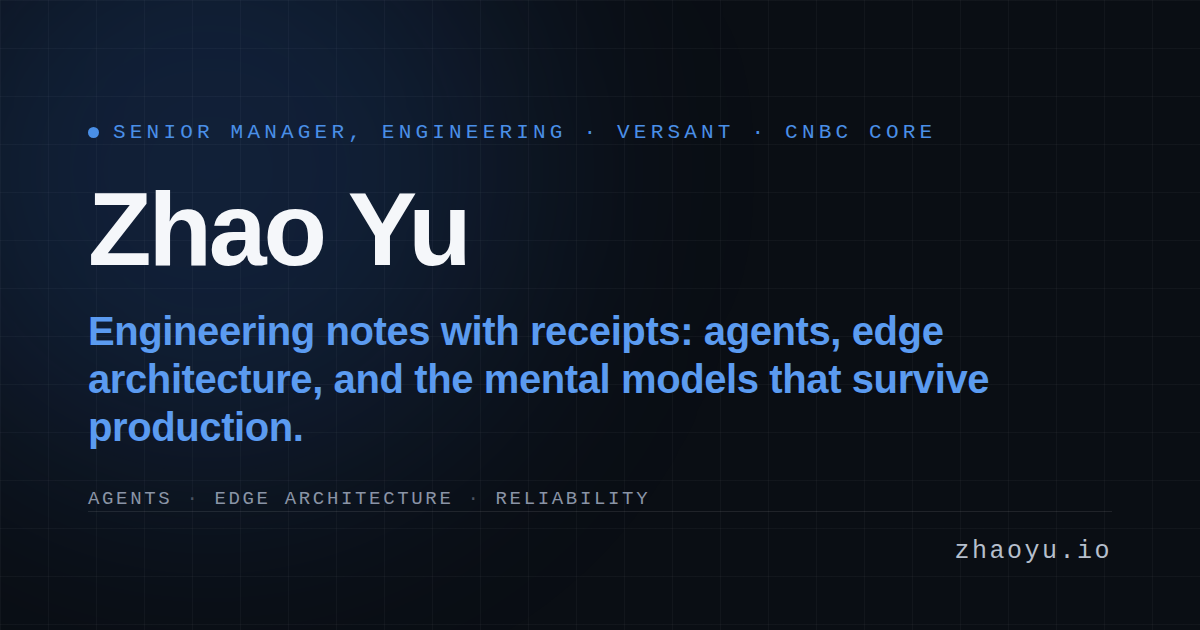
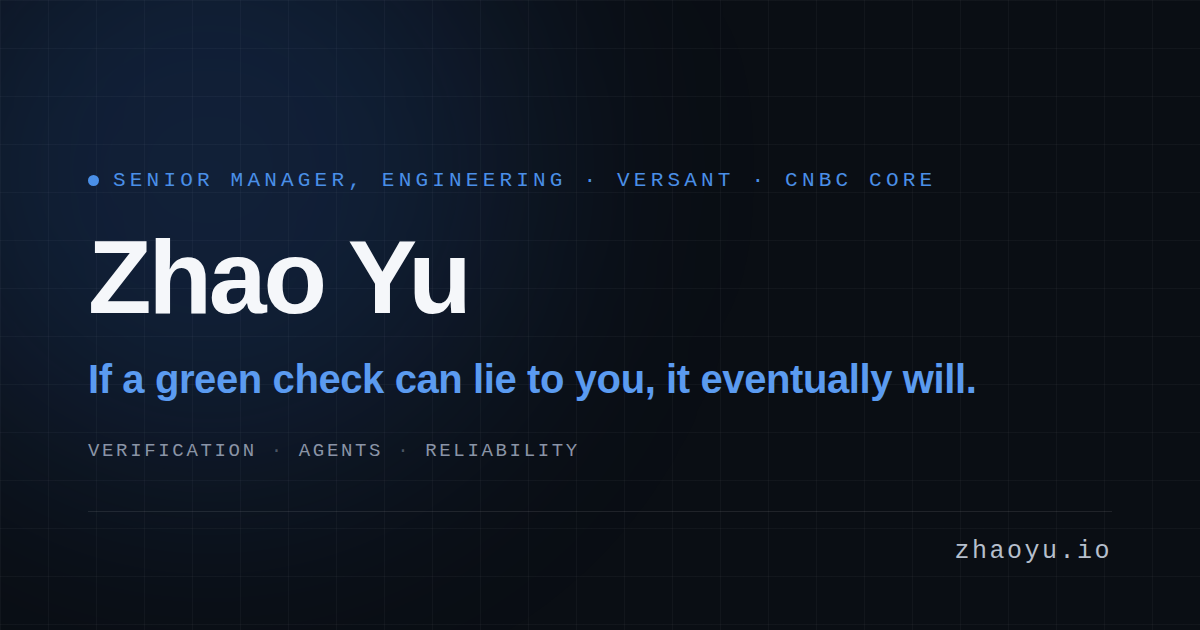
Lead the hero with the verification thesis; state identity once, quietly
The hero headline was a format label ("Engineering notes with receipts") and
the site's actual thesis sat in the bio's last sentence. It now leads:
"If a green check can lie to you, it eventually will." The subhead names
the standard and the subjects the recent notes actually cover
(verification, agents, reliability); the bio gives the two failure shapes
from the shipped notes and what each note carries.

Identity is one line under the CTAs at secondary weight (name, role of
record, NYC), per PORTFOLIO-REVIEW-2026-09.md P0.2: findable for anyone
looking for who wrote this, never what the page says first. No team size
or scope rides along; those stay in About.

- content.ts: roleTitle constant is the single human-facing spelling of
  the role (hero identity, <title>, og/twitter titles, meta, Connect).
- Hero.svelte: bio renders as plain text (drops an {@html} sink and the
  dead emphasis rules); adds the identity line.
- positioning.test.ts: new assertion that identity is roleTitle and
  carries no scope claim. The headline's /CNBC/ assertion is removed as
  an owner policy change: platform grounding moved to the identity line.
  The bio's /receipt/ anchor is unchanged.
- structured-data.ts: Person description is the meta copy alone; the new
  bio leans on the page (its antecedent is the h1).
- og.ts, llms.txt, twitter: topic list becomes verification, agents,
  reliability on every surface; site OG card regenerated.
[…]

diff --git a/frontend/src/lib/constants/content.ts b/frontend/src/lib/constants/content.ts
@@ -52,32 +52,47 @@ export interface HeroContent {
     primary: string;
     secondary: string;
   };
+  /** The quiet identity line under the CTAs: a fact stated once, never a badge. */
+  identity: {
+    name: string;
+    role: string;
+    location: string;
+  };
 }
 
-/**
- * The role line, kept off the hero on purpose: it lives on the finding-aid
- * surfaces (OG card eyebrow, <title>, meta, JSON-LD, llms.txt) and in About.
- */
+/** The OG card eyebrow: the role of record in the card's all-caps register. */
 export const roleLine = 'SENIOR MANAGER, ENGINEERING · VERSANT · CNBC CORE';
 
 /**
- * Hero copy. Craft-first: the page leads with the writing and the standard it
- * holds itself to, not the résumé. Role and scope are stated once, in About,
- * and on the agent-facing surfaces. The headline (primary + accent) is held
- * to 40 words by positioning.test.ts; the bio carries at most one figure.
+ * The role of record in sentence case, spelled once for every human-facing
+ * surface: <title>, og/twitter titles, meta, the hero identity line, Connect.
+ * Title only; team size and program scope stay in About and the meta copy.
+ */
+export const roleTitle = 'Senior Manager, Engineering at Versant (CNBC Core)';
+
+/**
+ * Hero copy. Craft-first: the thesis leads and is the largest thing on the
+ * screen. Identity sits under the CTAs at secondary weight, so anyone looking
+ * for who wrote this finds it without it being what the page says first
+ * (PORTFOLIO-REVIEW-2026-09.md, P0.2). Scope is stated once, in About, and on
+ * the agent-facing surfaces. The headline (primary + accent) is held to 40
+ * words by positioning.test.ts; the bio carries at most one figure.
  */
 export const heroContent: HeroContent = {
   headline: {
-    primary: 'Engineering notes with receipts.',
-    accent:
-      'Mental models from ten years of building CNBC.com: agents, edge architecture, reliability.',
+    primary: 'If a green check can lie to you, it eventually will.',
+    accent: 'Engineering notes with receipts on verification, agents, and reliability.',
   },
-  tagline:
-    'Engineering notes with receipts: agents, edge architecture, and the mental models that survive production.',
-  bio: "I'm an engineering manager who still ships, and this site is where I write down what production teaches me. Every claim carries a receipt: a number, a named system, or an incident I can point at. If a green check can lie to you, it eventually will; the notes start there.",
+  tagline: 'If a green check can lie to you, it eventually will.',
+  bio: 'The lie is quiet: a gate whose “did not run” reads as a pass, or a search that reported zero because it was looking in the wrong place. Each note names its receipt, the incident or source it came from. The Models section collects the rules that held up.',
   cta: {
     primary: 'Read the Notes',
     secondary: 'View Selected Work',
+  },
+  identity: {
+    name: 'Zhao Yu',
+    role: roleTitle,
+    location: 'NYC',
   },
 };
 
@@ -252,8 +267,7 @@ export const notesData: NotesData = {
           verified_on: '2026-09-15',
         },
         {
-          label:
-            'First-hand: weekly re-run row recording fifty scripts and zero without a caller',
+          label: 'First-hand: weekly re-run row recording fifty scripts and zero without a caller',
           ref: 'ba643ca5:ops/audits/script-consumer-audit-2026-09-01.md',
           host: 'Windows 10',
           verified_on: '2026-09-15',
@@ -709,9 +723,8 @@ export interface SocialDescriptions {
 
 /** Human-facing social/meta copy; the agent layer (JSON-LD, llms.txt) tells the same story. */
 export const socialDescriptions: SocialDescriptions = {
-  meta: 'Senior Manager, Engineering at Versant (CNBC Core). 8 engineers and 2 QE direct, co-leading the ~20-engineer CNBC.com rebuild. Notes with receipts.',
-  twitter:
-    'Senior Manager, Engineering at Versant (CNBC Core). Engineering notes with receipts: agents, edge architecture, reliability.',
+  meta: `${roleTitle}. 8 engineers and 2 QE direct, co-leading the ~20-engineer CNBC.com rebuild. Notes with receipts.`,
+  twitter: `${roleTitle}. Engineering notes with receipts: verification, agents, reliability.`,
 };
 
 export interface PersonaItem {

diff --git a/frontend/src/lib/constants/positioning.test.ts b/frontend/src/lib/constants/positioning.test.ts
@@ -5,6 +5,7 @@ import { resolve, dirname } from 'node:path';
 import {
   heroContent,
   roleLine,
+  roleTitle,
   socialDescriptions,
   narrativeBio,
   builderProjects,
@@ -32,15 +33,28 @@ describe('hero', () => {
   it('leads with the craft thesis in at most 40 words, with no résumé claims', () => {
     const headline = `${heroContent.headline.primary} ${heroContent.headline.accent}`;
     expect(words(headline)).toBeLessThanOrEqual(40);
-    // The hero names the standard (receipts) and the subject matter, grounded
-    // in the platform. The role and scope deliberately do not appear here:
-    // they live in About and on the finding-aid surfaces (meta, JSON-LD,
-    // llms.txt), asserted below. A résumé phrase reappearing in the hero is
-    // the regression this block exists to catch.
+    // The headline names the standard (receipts) and the subject matter. The
+    // role never appears in it: identity is one quiet line under the CTAs,
+    // asserted below, and scope lives in About and on the finding-aid
+    // surfaces (meta, JSON-LD, llms.txt). A résumé phrase reappearing in the
+    // headline is the regression this block exists to catch. The headline no
+    // longer has to name CNBC (owner decision, 2026-10-04): platform grounding
+    // moved to the identity line, where roleTitle carries CNBC Core.
     expect(headline).toMatch(/receipt/i);
     expect(headline).toMatch(/agents|edge|reliability/i);
-    expect(headline).toMatch(/CNBC/);
     expect(headline).not.toMatch(/senior manager|versant|QE|20-engineer|player-coach/i);
+  });
+
+  it('states identity once, as the role of record and nothing more', () => {
+    // PORTFOLIO-REVIEW-2026-09.md P0.2: a fact stated once, under the CTAs.
+    // Title only: team size and program scope never ride along into the hero.
+    const { identity } = heroContent;
+    expect(identity.role).toBe(roleTitle);
+    expect(roleTitle).toMatch(TITLE);
+    expect(roleTitle).toMatch(EMPLOYER);
+    expect(roleTitle).toMatch(SCOPE);
+    const line = `${identity.name} ${identity.role} ${identity.location}`;
+    expect(line).not.toMatch(/QE|20-engineer|player-coach|\b(leads|directs|runs)\b/i);
   });
 
   it('carries at most one figure in the bio', () => {
@@ -54,8 +68,8 @@ describe('hero', () => {
   });
 
   it('keeps the role line intact for the finding-aid surfaces', () => {
-    // The OG card eyebrow, <title>, meta and JSON-LD still state the role as
-    // fact; craft-first is about placement, not about hiding the job.
+    // The OG card eyebrow states the role as fact in its all-caps register;
+    // craft-first is about placement, not about hiding the job.
     expect(roleLine).toMatch(/SENIOR MANAGER, ENGINEERING/);
     expect(roleLine).toMatch(/VERSANT/);
     expect(roleLine).toMatch(/CNBC CORE/);

diff --git a/frontend/src/lib/components/features/hero/Hero.svelte b/frontend/src/lib/components/features/hero/Hero.svelte
@@ -2,13 +2,7 @@
   import { heroContent } from '$lib/constants/content';
   import { handleAnchorNavigation } from '$lib/utils/navigation';
 
-  // Light emphasis on the two phrases that carry the story; each replace is a
-  // no-op when the phrase is absent, so a copy edit cannot break the markup.
-  const formattedBio = $derived(
-    heroContent.bio
-      .replace(/still ships/g, '<strong class="bio-emphasis">still ships</strong>')
-      .replace(/carries a receipt/g, '<span class="bio-metric">carries a receipt</span>'),
-  );
+  const { identity } = heroContent;
 </script>
 
 <section
@@ -34,10 +28,7 @@
       </span>
     </h1>
 
-    <p class="hero-bio mx-auto">
-      <!-- eslint-disable-next-line svelte/no-at-html-tags -- self-authored bio from content.ts, not user input -->
-      {@html formattedBio}
-    </p>
+    <p class="hero-bio mx-auto">{heroContent.bio}</p>
 
     <div class="hero-actions flex flex-col md:flex-row justify-center items-center">
       <a
@@ -55,6 +46,13 @@
         {heroContent.cta.secondary}
       </a>
     </div>
+
+    <!-- Identity, stated once and quietly: under the CTAs, at secondary weight,
+         so the thesis is what the page says first and the role is there for
+         anyone who looks for it. -->
+    <p class="hero-identity">
+      {identity.name} · {identity.role} · {identity.location}
+    </p>
   </div>
 </section>
 
@@ -170,25 +168,17 @@
     color: var(--text-primary);
   }
 
-  /* ---------- Bio emphasis (injected by formattedBio) ---------- */
+  /* ---------- Identity ---------- */
 
-  :global(.hero-bio .bio-emphasis) {
-    color: var(--text-primary);
+  /* Description tier, below the bio: sans, muted, the smallest text in the
+     hero. A fact for the reader who goes looking, not a badge. */
+  .hero-identity {
+    margin-top: var(--space-xl);
+    color: var(--text-muted);
+    font-size: var(--type-sm);
     font-weight: var(--weight-regular);
+    line-height: var(--leading-relaxed);
     transition: color var(--duration-base);
-  }
-
-  :global(.hero-bio .bio-metric) {
-    padding-bottom: var(--space-2xs);
-    border-bottom: 1px solid var(--accent-primary-30);
-    color: var(--text-primary);
-    transition:
-      color var(--duration-base),
-      border-color var(--duration-base);
-  }
-
-  :global(.hero-bio .bio-metric:hover) {
-    border-bottom-color: var(--accent-primary);
   }
 
   /* ---------- Responsive ---------- */

diff --git a/frontend/src/routes/(main)/+page.svelte b/frontend/src/routes/(main)/+page.svelte
@@ -9,7 +9,7 @@
   import { LatencySim } from '$lib/components/features/latency-sim';
   import { PersonaSection } from '$lib/components/features/persona';
   import { Connect } from '$lib/components/features/connect';
-  import { socialDescriptions } from '$lib/constants/content';
+  import { socialDescriptions, roleTitle } from '$lib/constants/content';
   import {
     personJsonLd,
     jsonLdScript,
@@ -32,23 +32,17 @@
 </script>
 
 <svelte:head>
-  <title>Zhao Yu | Senior Manager, Engineering at Versant (CNBC Core)</title>
+  <title>Zhao Yu | {roleTitle}</title>
   <meta name="description" content={metaDescription} />
 
   <meta property="og:type" content="website" />
   <meta property="og:url" content="{SITE_URL}/" />
-  <meta
-    property="og:title"
-    content="Zhao Yu · Senior Manager, Engineering at Versant (CNBC Core)"
-  />
+  <meta property="og:title" content="Zhao Yu · {roleTitle}" />
   <meta property="og:description" content={metaDescription} />
   <meta property="og:image" content={SITE_CARD_IMAGE} />
   <meta property="twitter:card" content="summary_large_image" />
   <meta property="twitter:url" content="{SITE_URL}/" />
-  <meta
-    property="twitter:title"
-    content="Zhao Yu · Senior Manager, Engineering at Versant (CNBC Core)"
-  />
+  <meta property="twitter:title" content="Zhao Yu · {roleTitle}" />
   <meta property="twitter:description" content={twitterDescription} />
   <meta property="twitter:image" content={SITE_CARD_IMAGE} />
 
@@ -59,7 +53,8 @@
 </svelte:head>
 
 <!-- Craft-first order: the writing and the mental models lead; the résumé
-     material (About, then the sourced numbers) sits at the end, stated once.
+     material (About, then the sourced numbers) sits at the end. The hero's
+     one quiet identity line under the CTAs is the only role statement above it.
      Models sit directly under the writing, and the code standards follow them:
      the standards are the worked examples a model cashes out into, not peers
      of the models themselves. Two sections cannot both be "mental models," so

diff --git a/frontend/src/lib/constants/structured-data.ts b/frontend/src/lib/constants/structured-data.ts
@@ -3,7 +3,7 @@
  * so the agent-facing layer cannot drift from the human-facing copy and the
  * required keys are asserted once (structured-data.test.ts).
  */
-import { heroContent, socialDescriptions, type EngineeringNote } from '$lib/constants/content';
+import { socialDescriptions, type EngineeringNote } from '$lib/constants/content';
 import type { CaseStudy } from '$lib/constants/case-studies';
 
 export const SITE_URL = 'https://zhaoyu.io';
@@ -41,9 +41,10 @@ export function personJsonLd() {
     jobTitle: 'Senior Manager, Engineering',
     sameAs: [...SAME_AS],
     worksFor: { '@type': 'Organization', name: 'Versant Media / CNBC' },
-    // The same story the hero and meta description tell — role and scope,
-    // no internal specifics (see content.ts header).
-    description: `${socialDescriptions.meta} ${heroContent.bio}`,
+    // Role, scope and the receipts standard, no internal specifics (see the
+    // content.ts header). The hero bio is not appended: it leans on the page
+    // around it (its antecedent is the h1, and it names the Models section).
+    description: socialDescriptions.meta,
     knowsAbout: [...KNOWS_ABOUT],
     image: SITE_CARD_IMAGE,
   };

diff --git a/frontend/src/lib/components/features/connect/Connect.svelte b/frontend/src/lib/components/features/connect/Connect.svelte
@@ -1,5 +1,6 @@
 <script lang="ts">
   import { browser } from '$app/environment';
+  import { roleTitle } from '$lib/constants/content';
 
   let copied = $state(false);
   const email = 'zhaolyu@gmail.com';
@@ -43,7 +44,7 @@
       <div class="status-block">
         <div class="status-row">
           <span class="status-key">Currently:</span>
-          <span class="status-value">Senior Manager, Engineering at Versant (CNBC Core).</span>
+          <span class="status-value">{roleTitle}.</span>
         </div>
         <div class="status-row">
           <span class="status-key">Thinking about:</span>

diff --git a/frontend/src/lib/constants/og.ts b/frontend/src/lib/constants/og.ts
@@ -30,7 +30,7 @@ function siteCard(): OgCard {
     eyebrow: roleLine,
     subtitle: heroContent.tagline,
     title: 'Zhao Yu',
-    footnote: ['Agents', 'Edge Architecture', 'Reliability'],
+    footnote: ['Verification', 'Agents', 'Reliability'],
   };
 }
 

diff --git a/.claude/skills/writer/references/surfaces.md b/.claude/skills/writer/references/surfaces.md
@@ -81,10 +81,13 @@ a flag hides a card, not the shipped bundle.
 display ("Aug 14, 2026"), `dateISO` is a full `YYYY-MM-DD`, and every note carries at least
 one `sources` entry. RSS sorts defensively but the array is maintained newest-first.
 
-**Hero** (`heroContent`) — badge is the title line, all caps, separated by `·`. `headline.primary`
-is a short declarative sentence ending in a period. `headline.accent` is the positioning
-claim, one line. `bio` is one dense paragraph, 40–60 words, at most one figure (enforced by
-`positioning.test.ts`), ending on what the reader gets. `motto` is three two-word phrases.
+**Hero** (`heroContent`) — `headline.primary` is the thesis: a short declarative sentence
+ending in a period, the largest text on the page, never the role. `headline.accent` names the
+standard and the subjects, one line. `bio` is one dense paragraph, 40–60 words, at most one
+figure (enforced by `positioning.test.ts`), ending on what the reader gets. `identity` is the
+one quiet line under the CTAs: name, `roleTitle`, location, at secondary weight. It states the
+role of record and nothing more; team size and scope stay in About (enforced by
+`positioning.test.ts`). `tagline` is the OG card subtitle.
 
 **Projects** (`projectsData.projects`) — `description` is one paragraph, 55–80 words,
 structured as: what was architected → the technical move → the measured result. Two `metrics`
